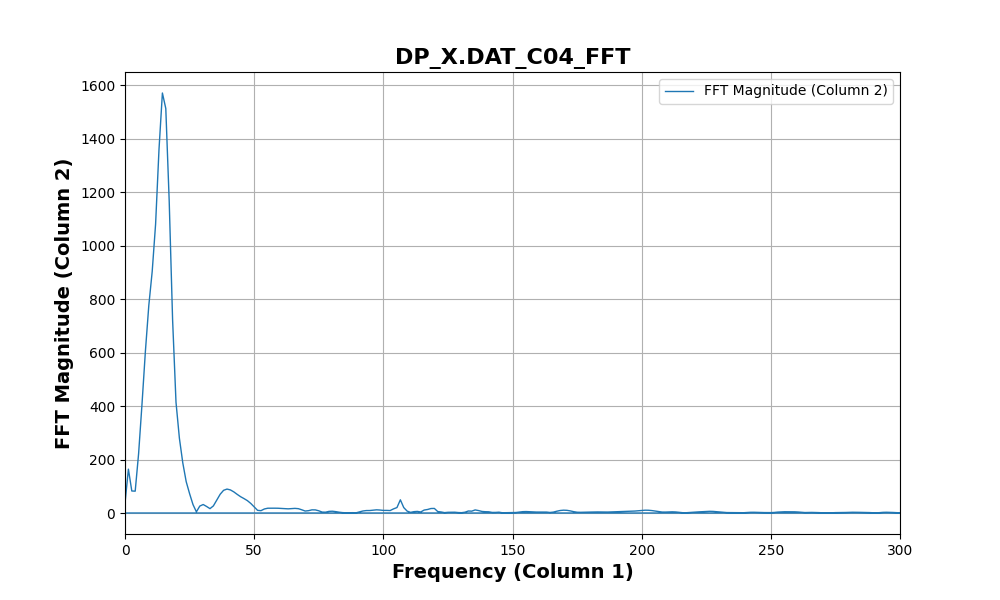
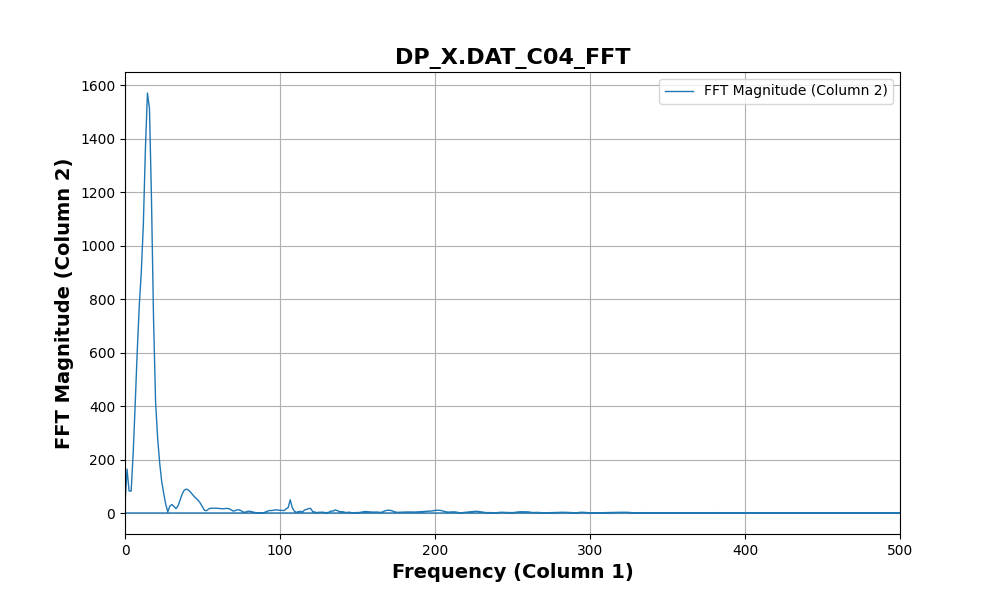
hhg spectra and gabor fft figures

diff --git a/hhg/gabor_vis.py b/hhg/gabor_vis.py
@@ -26,17 +26,18 @@ def plot_data(data, title, x_label, y_label, output_file, y_columns=None, max_fr
     plt.title(title, fontsize=16, fontweight='bold')
     plt.xlabel(x_label, fontsize=14, fontweight='bold')
     plt.ylabel(y_label, fontsize=14, fontweight='bold')
+    #plt.yscale('log')  # Apply logarithmic scale to the y-axis
     if max_freq is not None:
         plt.xlim(0, max_freq)
     plt.legend()
     plt.grid(True)
     plt.savefig(output_file)
-    #plt.show()
+    plt.show()
 
 # File paths
 input_directory = "hhg/input/"
 output_directory = "hhg/output/"
-max_freq = 300 # Frequency [Omega] = (angular frequency × 2π)
+max_freq = 500 # Frequency [Omega] = (angular frequency × 2π)
 files = {
     #                                   file_path                      num_columns  y_columns
     "DP_X.DAT_C04_FFT":           (input_directory+"dp_x.dat_C04_FFT",           2,    None),
@@ -51,3 +52,33 @@ for title, (file_path, num_columns, y_columns) in files.items():
         plot_data(data, title, "Time [fs] (Column 1)", "Dipole", output_directory+f"{title}.png", y_columns)
     else:
         plot_data(data, title, "Frequency (Column 1)", "FFT Magnitude (Column 2)", output_directory+f"{title}.png", y_columns,max_freq= max_freq)
+
+
+### HHG SPECTRA INFO
+# use logarithmic scale for y-axis
+# x-axis is frequency (in a.u.) if scale = 0. y is arbitrary "absorption/energy/intensity/strength level" unit.
+
+### SIMULATION: THINGS TO TRY/DO/SIMULATE
+# try to lose no electrons with an HHG simulation. if you are losing electrons: CAP is too close or laser is too strong.
+# play with different sim times. An infinitely long simulation would give very clear hhg spectrum with very sharp peaks.
+# try gaussian envelope to compare
+
+### THINGS TO LOOK FOR WHEN ANALYZING
+# first peak should be freq. of laser (makes sense--electron density [and dipole] oscillates at frequency of laser.)
+# first 5 to 10 peaks of harmonic spectrum should be same for different box size.
+# every odd harmonic should be showing up. put vertical lines at odd harmonics
+# should get even spacing and even width b/w peaks. again, if simulation ran infinitely then the peaks would be much sharper
+# NOTE: add laser to the dipole figure
+
+
+### EXTRA SIM: NEED TO KNOW EXCITED STATES OF ARGON
+# do calculation for argon with excited states
+# To do this, run a calculation with a kick instead of a laser
+#    ^ ask Hamza, he knows how to do this properly
+# OR we can artificially add a kick in z direction by setting the first row in the pulse.dat file as:
+# <time> <E_x> <E_y> <E_z>
+#  0.001   0     0     1
+#  0.002   0     0     0
+#  0.003   0     0     0
+#   ...   ...   ...   ...
+# and then the every other time step will have an E-field of 0. 
